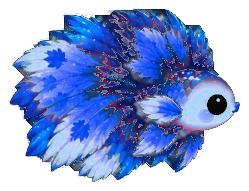
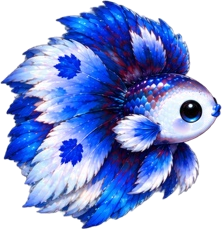
Coral Maple Betta: new art by user - side/front/sleep poses (SPRITE_V 24)

diff --git a/public/js/data.js b/public/js/data.js
@@ -84,7 +84,7 @@ const DATA = {
 
 /** Frame roles: 0 idle, 1-4 swim, 5 eat (only while eating), 6 sleep, 7 rear/turn */
 // Bump SPRITE_V whenever shipped art changes so phones don't keep stale cached PNGs.
-const SPRITE_V = 23;
+const SPRITE_V = 24;
 function spriteURL(speciesId, frame) {
   const s = DATA.SPECIES[speciesId];
   if (!s) return "";
